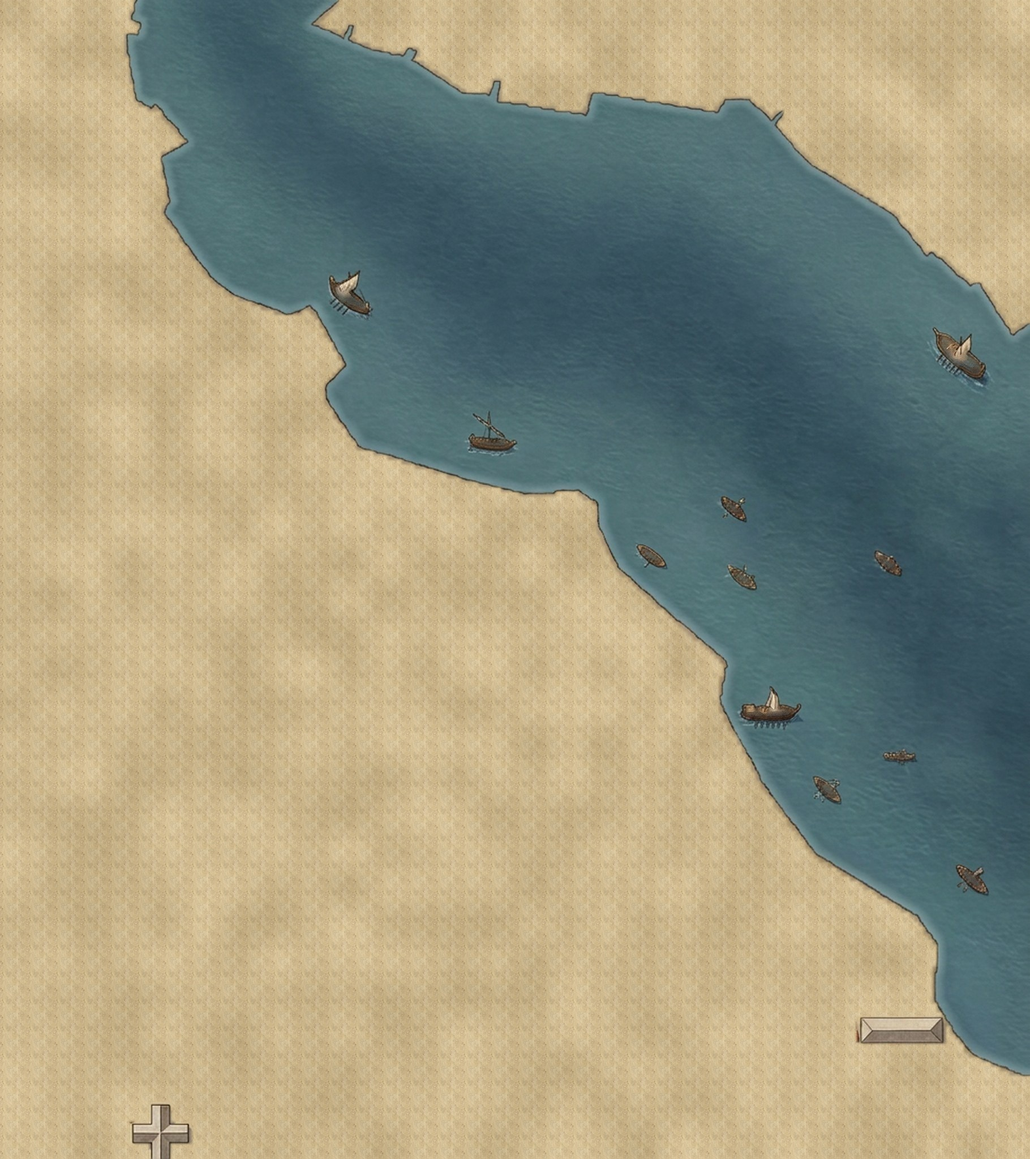
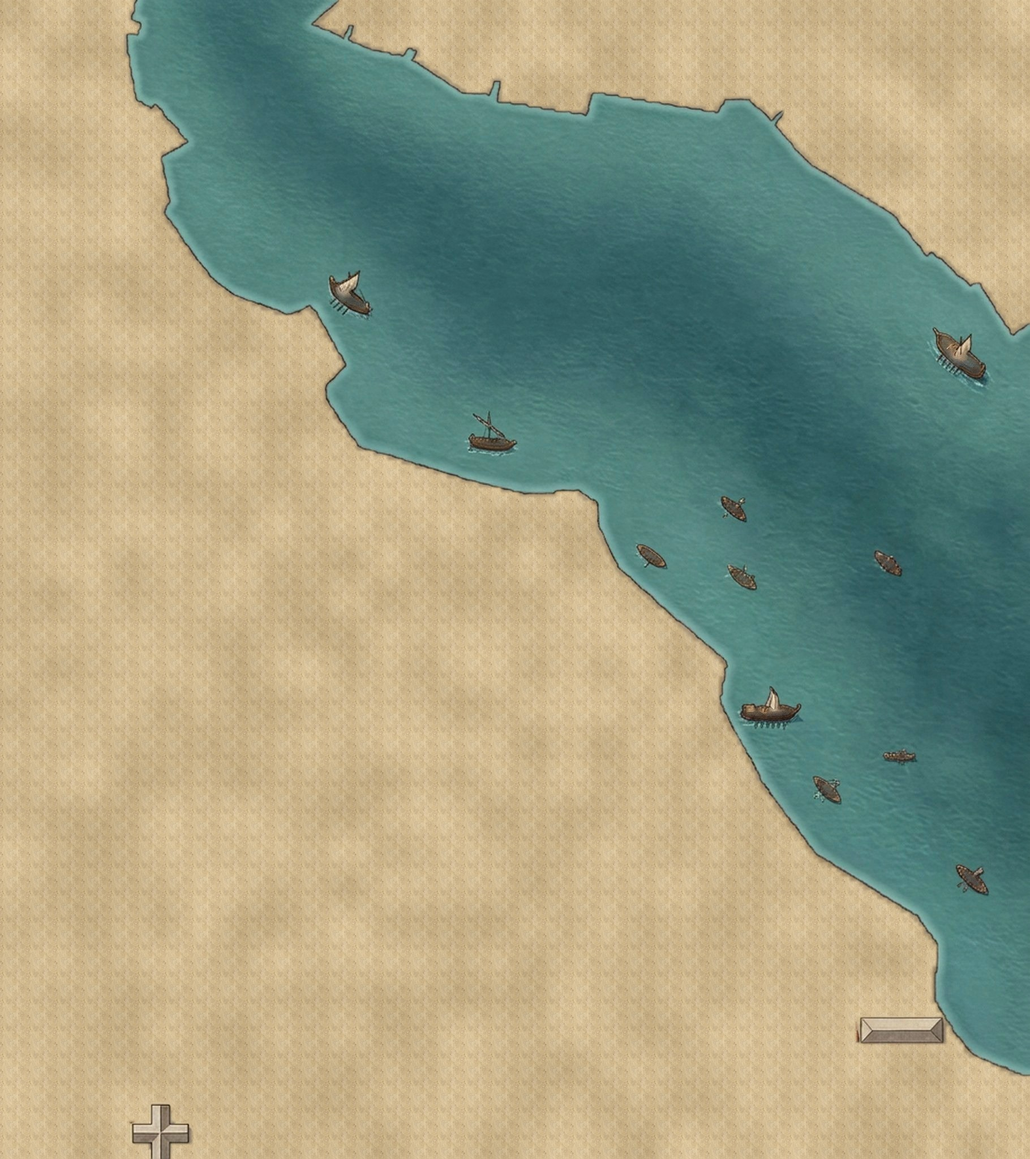
cs32 全城一张色板：沙地、水面都按 city/palette.json，换街区、换年代不跳色 ——Hark（CS线）

diff --git a/tools/cs/check_palette.py b/tools/cs/check_palette.py
@@ -1,0 +1,45 @@
+"""CS 线 · 全城色板检查（cs32，CITY_RULES L7）。用法: python tools/cs/check_palette.py <q> [其它街区…]
+1 每个年份的沙地离全城色板 ΔE ≤ sand_dE；水面 ≤ water_dE
+2 同一街区前后年份之间，沙地、水面 ΔE ≤ year_dE（换年代不跳色）
+3 和其它已长成的街区比，同一年份沙地、水面 ΔE ≤ quarter_dE"""
+import json, os, sys
+import numpy as np, cv2
+from PIL import Image, ImageFilter
+ROOT = os.path.dirname(os.path.dirname(os.path.dirname(os.path.abspath(__file__))))
+PAL = json.load(open(os.path.join(ROOT, 'tools', 'cs', 'factory', 'city', 'palette.json'))); T = PAL['tol']
+LIV = os.path.join(ROOT, 'docs', 'living')
+def lab(c): return cv2.cvtColor(np.uint8([[np.clip(c, 0, 255)]]), cv2.COLOR_RGB2LAB)[0, 0].astype(float) * [100 / 255, 1, 1] - [0, 128, 128]
+def dE(a, b): return float(np.linalg.norm(lab(a) - lab(b)))
+def stats(q):
+    Q = os.path.join(LIV, q); sc = json.load(open(os.path.join(Q, 'scene.json')))
+    if not sc.get('street_layout'): return None
+    WK = (sc.get('fleet') or {}).get('walk') or sc['walk']; wat = np.array([c == 'w' for c in WK['quay']]).reshape(WK['H'], WK['W'])
+    wI = Image.fromarray(wat.astype(np.uint8) * 255).resize((1820, 2048), Image.NEAREST)
+    wc = np.asarray(wI.filter(ImageFilter.MinFilter(15))) > 0; lc = np.asarray(wI.filter(ImageFilter.MaxFilter(15))) == 0
+    out = {}
+    for K in [0] + [k[0] for k in sc['keys']]:
+        a = np.asarray(Image.open(os.path.join(Q, f'ground_{K}.jpg')).convert('RGB')).astype(float)
+        f = a; blu = (f[..., 1] > f[..., 0] + 12) & (f[..., 2] > f[..., 0] + 6)
+        out[K] = (np.median(a[lc], 0), np.median(a[wc & blu], 0) if (wc & blu).sum() > 500 else None)
+    return out
+qs = sys.argv[1:]; S = {q: stats(q) for q in qs + [d for d in sorted(os.listdir(LIV)) if d not in qs and os.path.exists(os.path.join(LIV, d, 'scene.json'))]}
+S = {k: v for k, v in S.items() if v}
+q = qs[0]; me = S[q]; bad = 0; out = []
+def rep(ok, name, info):
+    global bad; bad += not ok; out.append(('✅ ' if ok else '❌ ') + name + '  —— ' + info)
+wt = cv2.cvtColor(np.uint8([[np.array(PAL['water_lab_mean'])]]), cv2.COLOR_LAB2RGB)[0, 0].astype(float)
+ds = max(dE(s, PAL['sand_rgb']) for s, _ in me.values()); dw = max([dE(w, wt) for _, w in me.values() if w is not None] or [0])
+rep(ds <= T['sand_dE'] and dw <= T['water_dE'], '地面颜色在全城色板上', f'沙地最大 ΔE {ds:.1f}（≤{T["sand_dE"]}），水面最大 ΔE {dw:.1f}（≤{T["water_dE"]}）')
+ks = sorted(me); yj = 0
+for a, b in zip(ks[:-1], ks[1:]):
+    yj = max(yj, dE(me[a][0], me[b][0]), dE(me[a][1], me[b][1]) if me[a][1] is not None and me[b][1] is not None else 0)
+rep(yj <= T['year_dE'], '换年代地面不跳色', f'相邻年份最大 ΔE {yj:.1f}（≤{T["year_dE"]}）')
+qj = 0; who = []
+for o, st in S.items():
+    if o == q: continue
+    for K in set(st) & set(me):
+        d = max(dE(st[K][0], me[K][0]), dE(st[K][1], me[K][1]) if st[K][1] is not None and me[K][1] is not None else 0)
+        if d > qj: qj = d
+    who.append(o)
+rep(qj <= T['quarter_dE'], '和别的街区是同一座城的颜色', f'对 {who or "无"} 最大 ΔE {qj:.1f}（≤{T["quarter_dE"]}）')
+print('\n'.join(out)); sys.exit(1 if bad else 0)

diff --git a/tools/cs/factory/ground_ng.py b/tools/cs/factory/ground_ng.py
@@ -18,13 +18,32 @@ def keep_at(K):   # 水、这一年已经盖起来的地标不抹（还没盖的
         p = v['p']; cx = sum(x for x, _ in p) / len(p); cy = sum(y for _, y in p) / len(p); dl.polygon([(cx + (x - cx) * 1.08, cy + (y - cy) * 1.08) for x, y in p], fill=255)
     return np.maximum(np.asarray(watI), np.asarray(lmI)) > 0
 keep = keep_at(0)
+PAL = json.load(open(os.path.join(HERE, 'city', 'palette.json')))
+import cv2
+_wcore = np.asarray(watI.filter(ImageFilter.MinFilter(9)).filter(ImageFilter.MinFilter(15))) > 0   # 水心（统计用）
+_wzone = np.asarray(watI.filter(ImageFilter.MaxFilter(25))) > 0                                    # 可能画成水的地方（含没建栈桥的补丁）
+def water_to_palette(img):
+    # 水面按全城色板做 Lab 均值/方差匹配：保留波纹和深浅，换掉各张画自己的水色；船、栈桥（不偏蓝绿）不动
+    a = np.asarray(img).astype(np.uint8)
+    if not _wcore.any(): return img
+    L = cv2.cvtColor(a, cv2.COLOR_RGB2LAB).astype(float)
+    f = a.astype(float); blu = (f[..., 1] > f[..., 0] + 12) & (f[..., 2] > f[..., 0] + 6) & _wzone
+    core = _wcore & blu
+    if core.sum() < 500: return img
+    mu = L[core].mean(0); sd = L[core].std(0) + 1e-6
+    tm = np.array(PAL['water_lab_mean'], float); ts = np.array(PAL['water_lab_std'], float)
+    sc_ = np.clip(ts / sd, 0.5, 2.0); sc_[1:] = np.minimum(sc_[1:], 1.0)
+    N = (L - mu) * sc_ + tm
+    out = cv2.cvtColor(np.clip(N, 0, 255).astype(np.uint8), cv2.COLOR_LAB2RGB).astype(float)
+    m = np.asarray(Image.fromarray(blu.astype(np.uint8) * 255).filter(ImageFilter.GaussianBlur(1.5))).astype(float)[..., None] / 255
+    return Image.fromarray(np.clip(out * m + f * (1 - m), 0, 255).astype(np.uint8))
 gt = Image.open(Q + 'kits/hill/ground.webp').convert('RGB').resize((48, 48), Image.LANCZOS)
 # 三张画的地面颜色不一样（50 年那张偏暗），统一用一种沙色、一张纹理，免得换年代时地面跳色
 SAND = None
 for K, f, _ in [(0, sc['keys'][0][1], None)] + [tuple(k) for k in sc['keys']]:   # ground_0：第一张画把地标也抹掉，给最早那些年用
     A = Image.open(Q + f).convert('RGB').resize((W, H)); a = np.asarray(A).astype(float); keep = keep_at(K)
     if SAND is None:
-        land = a[~keep]; land = land[(land[:, 0] - land[:, 2] < 70) & (land.sum(1) > 420)]; SAND = np.median(land, 0)
+        SAND = np.array(PAL['sand_rgb'], float)   # cs32：全城一种沙色，不再取各自画上的
     # 整片陆地铺成同一种沙地；留下水、地标、画上的绿（菜园、树）和火烧过的焦土
     green = (a[..., 1] > a[..., 0] + 4) & (a[..., 1] > a[..., 2] + 10)
     dark = (a.sum(2) < 330) & (np.abs(a[..., 0] - a[..., 2]) < 40)
@@ -46,4 +65,5 @@ for K, f, _ in [(0, sc['keys'][0][1], None)] + [tuple(k) for k in sc['keys']]:  
     rs = np.random.RandomState(5); noise = np.asarray(Image.fromarray((rs.rand(H // 64, W // 64) * 255).astype(np.uint8)).resize((W, H), Image.BICUBIC)).astype(float)[..., None]
     ga = ga * 0.5 + sand * 0.5 + (noise - 128) * 0.08
     G = Image.composite(Image.fromarray(np.clip(ga, 0, 255).astype(np.uint8)), A, m)
+    G = water_to_palette(G)
     G.save(Q + f'ground_{K}.jpg', quality=88); print('ground', K, 'sand', sand.round())

diff --git a/tools/cs/factory/accept.py b/tools/cs/factory/accept.py
@@ -193,6 +193,13 @@ def compare(q, fix):
         for ln in r.stdout.strip().splitlines():
             if ln[:1] in '✅❌': rec(S, ln[2:].split('  ——')[0], ln.startswith('✅'), ln.split('  ——')[1].strip() if '  ——' in ln else '', '改全城规则 city_streets.py（不许改某个街区），再重跑 streets_ng.py')
         if r.returncode and not any(l[:1] == '❌' for l in r.stdout.splitlines()): rec(S, 'check_citynet 跑通', False, (r.stderr or r.stdout)[-160:], '看报错')
+    # cs32 · 全城一张色板（CITY_RULES L7）
+    if sc.get('street_layout'):
+        r = sh(sys.executable, os.path.join(ROOT, 'tools', 'cs', 'check_palette.py'), q)
+        if r.returncode and FIX: sh(sys.executable, os.path.join(HERE, 'ground_ng.py'), q); r = sh(sys.executable, os.path.join(ROOT, 'tools', 'cs', 'check_palette.py'), q)
+        for ln in r.stdout.strip().splitlines():
+            if ln[:1] in '✅❌': rec(S, ln[2:].split('  ——')[0], ln.startswith('✅'), ln.split('  ——')[1].strip() if '  ——' in ln else '', '--fix 重跑 ground_ng.py；色板只在 city/palette.json 改（全城一张）')
+        if r.returncode and not any(l[:1] == '❌' for l in r.stdout.splitlines()): rec(S, 'check_palette 跑通', False, (r.stderr or r.stdout)[-160:], '看报错')
     # cs24 · 码头逐年长：没建成的栈桥每个年代都有补丁，盖住栈桥和归它的船
     if sc.get('fleet', {}).get('docks'):
         r = sh(sys.executable, os.path.join(ROOT, 'tools', 'cs', 'check_dockpatch.py'), q)

diff --git a/docs/living/nangang/ACCEPT.md b/docs/living/nangang/ACCEPT.md
@@ -1,6 +1,6 @@
 # nangang 验收
 
-通过 69 / 69
+通过 72 / 72
 
 
 ## 一、拉取
@@ -38,6 +38,9 @@
 - ✅ 没有街区专用的街网参数 —— streets_ng 用到 无；配方 无
 - ✅ 同分布：框里街的疏密和全城一样（随密度，不随街区） —— 框里 0.238 / 全城 0.230 = 1.03
 - ✅ 接缝：全城网出框的地方，街区的街接得上 —— 53/55 没接上 [(1820, 293), (1351, 0)]
+- ✅ 地面颜色在全城色板上 —— 沙地最大 ΔE 0.4（≤4），水面最大 ΔE 2.2（≤6）
+- ✅ 换年代地面不跳色 —— 相邻年份最大 ΔE 1.4（≤5）
+- ✅ 和别的街区是同一座城的颜色 —— 对 ['jinjiao'] 最大 ΔE 2.4（≤6）
 - ✅ 没建成的栈桥都盖住了（连同靠在边上的画上的船） —— dock patches 8 / 8, uncovered cells 0
 - ✅ 画上的栈桥人走得上去 —— piers walkable 1065 / 1072
 - ✅ 栈桥上有人站（站位落在栈桥上、来码头的路有一部分终点在栈桥） —— pier spots 8, on pier 8, trails ending on a pier 1567 / 2683

diff --git a/CS_LINE.md b/CS_LINE.md
@@ -216,3 +216,9 @@ backlog 要求「每一种会动的东西都有不下水检查」。清点页面
 - 南港、金角岸都按这张网重长；金角岸的街不再斜切大道。
 - 新检查 check_citynet.py：一张网 798/800、顺着大道 南港 386/415 金角岸 124/127、无街区专用参数、疏密同分布 0.95/0.98、接缝。
 - 规则稿：tools/cs/factory/CITY_RULES.md。南港 69/69，金角岸 44/44。
+
+## cs32 · 全城一张色板
+- city/palette.json：沙色、水色一张表；ground_ng.py 把每张画的水按色板做 Lab 匹配（保留波纹、船、栈桥），沙地统一铺色板沙色。
+- 之前南港 60 年的水比 40 年暗一大截（RGB 43,77,77 对 74,118,114），金角岸的水偏灰蓝；现在两块、三个年份 ΔE ≤ 2.4。
+- 新检查 check_palette.py（离色板、换年代、跨街区），accept 跑。
+- 还没统一：水面纹理（金角岸 40 年白浪多）、岸线描边粗细。

diff --git a/docs/living/jinjiao/ACCEPT.md b/docs/living/jinjiao/ACCEPT.md
@@ -1,6 +1,6 @@
 # jinjiao 验收
 
-通过 44 / 44
+通过 47 / 47
 
 
 ## 一、拉取
@@ -26,6 +26,9 @@
 - ✅ 没有街区专用的街网参数 —— streets_ng 用到 无；配方 无
 - ✅ 同分布：框里街的疏密和全城一样（随密度，不随街区） —— 框里 0.234 / 全城 0.230 = 1.02
 - ✅ 接缝：全城网出框的地方，街区的街接得上 —— 9/10 没接上 [(335, 2048)]
+- ✅ 地面颜色在全城色板上 —— 沙地最大 ΔE 0.0（≤4），水面最大 ΔE 1.5（≤6）
+- ✅ 换年代地面不跳色 —— 相邻年份最大 ΔE 1.1（≤5）
+- ✅ 和别的街区是同一座城的颜色 —— 对 ['nangang'] 最大 ΔE 2.4（≤6）
 
 ## 定律
 - ✅ 定律三 · 推得出：重跑 land.py，位置与街和线上一致

diff --git a/tools/cs/factory/README.md b/tools/cs/factory/README.md
@@ -103,3 +103,4 @@
 - `python city_streets.py`：按底账（大道、城墙、岸、坡、旧区）给整座城长街，写 city/streets.json。底账或规则一变，streets_ng.py 会自动先重跑它。
 - streets_ng.py 不再自己长街，只把全城网裁到框里；配方里不许写街网参数。
 - 改街网只能改 city_streets.py 的参数表 P（全城一张），不许为某个街区加例外。
+- cs32：地面颜色只从 city/palette.json 来（沙、水），ground_ng.py 统一，check_palette.py 在 accept 里查。
